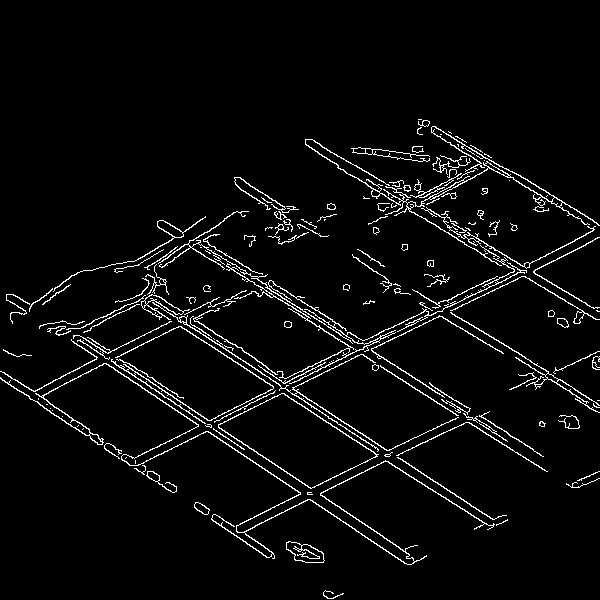
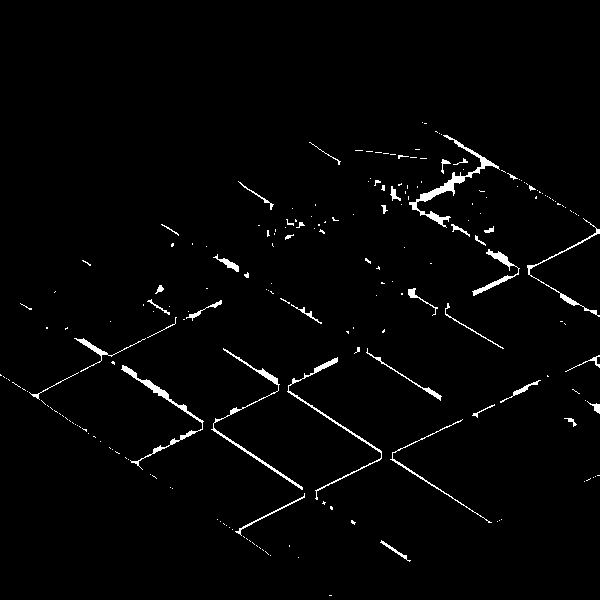
bordas e drawer

diff --git a/tutorial/video_grid.py b/tutorial/video_grid.py
@@ -9,11 +9,11 @@ while(True):
     # Our operations on the frame come here
     fr = cv2.resize(frame, (600,600))
 
-    gray = cv2.cvtColor(fr, cv2.COLOR_BGR2GRAY)
-    kernel = np.ones((5,5), np.uint8) 
+    # gray = cv2.cvtColor(fr, cv2.COLOR_BGR2GRAY)
+    # kernel = np.ones((5,5), np.uint8) 
 
-    gradient = cv2.morphologyEx(gray, cv2.MORPH_GRADIENT, kernel)    
-    canny = cv2.Canny(gradient, 175, 65)
+    # gradient = cv2.morphologyEx(gray, cv2.MORPH_GRADIENT, kernel)    
+    # canny = cv2.Canny(gradient, 175, 65)
     #cv2.imshow('tratamento',gradient)
     
     
@@ -23,16 +23,17 @@ while(True):
     # file_path = 'bioterio.png'
     # img = cv2.imread(file_path)
 
-    # gray = cv2.cvtColor(img,cv2.COLOR_BGR2GRAY)
-    # edges = cv2.Canny(gray,90,150,apertureSize = 3)
-    # kernel = np.ones((3,3),np.uint8)
-    # edges = cv2.dilate(edges,kernel,iterations = 1)
-    # kernel = np.ones((5,5),np.uint8)
-    # edges = cv2.erode(edges,kernel,iterations = 1)
+    gray = cv2.cvtColor(fr,cv2.COLOR_BGR2GRAY)
+    edges = cv2.Canny(gray,255,255,apertureSize = 3)
+    kernel = np.ones((3,3),np.uint8)
+    edges = cv2.dilate(edges,kernel,iterations = 1)
+    kernel = np.ones((5,5),np.uint8)
+    edges = cv2.erode(edges,kernel,iterations = 1)
 
-    cv2.imwrite('edge.png',canny)
+    # cv2.imwrite('edge.png',edges)
+    cv2.imshow('MultiTracker', edges)
 
-    lines = cv2.HoughLines(canny,1,np.pi/1,1)
+    lines = cv2.HoughLines(edges,1,np.pi/18,15)
 
     if not lines.any():
         print('No lines were found')

diff --git a/drive_aulas/trackbar.py b/drive_aulas/trackbar.py
@@ -6,7 +6,7 @@ y1=0
 width=0
 heigth=0
 ini = fim = 0
-img = cv.imread('Quimeras.jpg')
+img = cv.imread('bioterio.png')
 img = cv.cvtColor(img, cv.COLOR_BGR2GRAY)
 def nothing(x):
     global img, fim, ini

diff --git a/drive_aulas/negativo.py b/drive_aulas/negativo.py
@@ -1,6 +1,6 @@
 import cv2 as cv
 import numpy as np
-img = cv.imread('len_top.jpg', 0)
+img = cv.imread('bioterio.png', 0)
 cv.namedWindow('imagem1')
 cv.imshow("imagem1", img)
 cv.namedWindow('imagem')

diff --git a/drive_aulas/bordas.py b/drive_aulas/bordas.py
@@ -17,7 +17,7 @@ def segundo(x):
     cv2.imshow("Canny", img2)
 
 
-img = cv2.imread('open_field.png',0)
+img = cv2.imread('bioterio.png',0)
 cv2.namedWindow('img')
 cv2.imshow('img', img)
 
